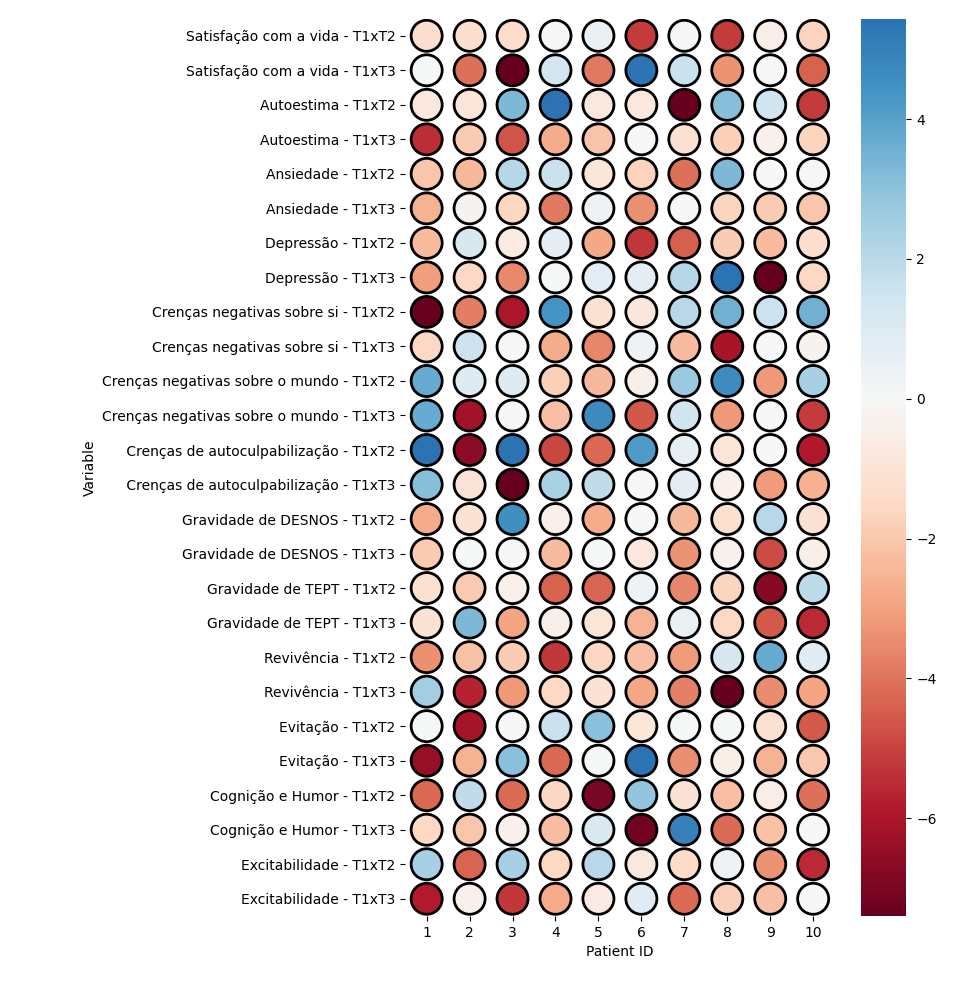
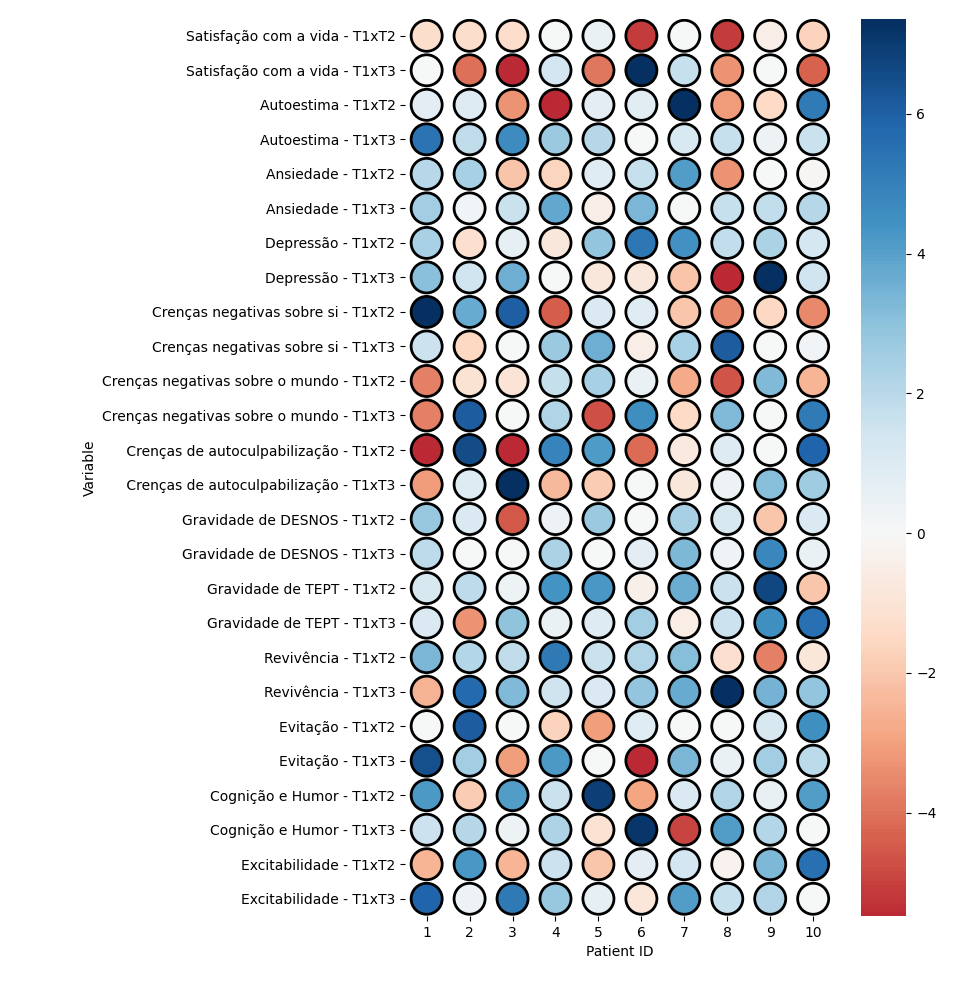
Fixed first two columns having different meaning in the test

Changed region(s): [[0.4062, 0.0, 0.9688, 0.9413]]

diff --git a/JT_plot.py b/JT_plot.py
@@ -69,7 +69,15 @@ def main(
         sheet_name=sheet_name,
         index_col=0,
         header=[0, 1]
-    ).T
+    )
+
+    # Inverts the values of every column except the first two columns,
+    # so that all columns have the same meaning (positive values = good)
+    for column_name in data.columns[2:]:
+        data[column_name] = -data[column_name]
+
+    # Transposes the dataset (makes the plot a bit easier to understand)
+    data = data.T
 
     # Gets mask values (if user chose to do so)
     mask = data.abs() < 1.86 if mask_non_significant_values is True else None
